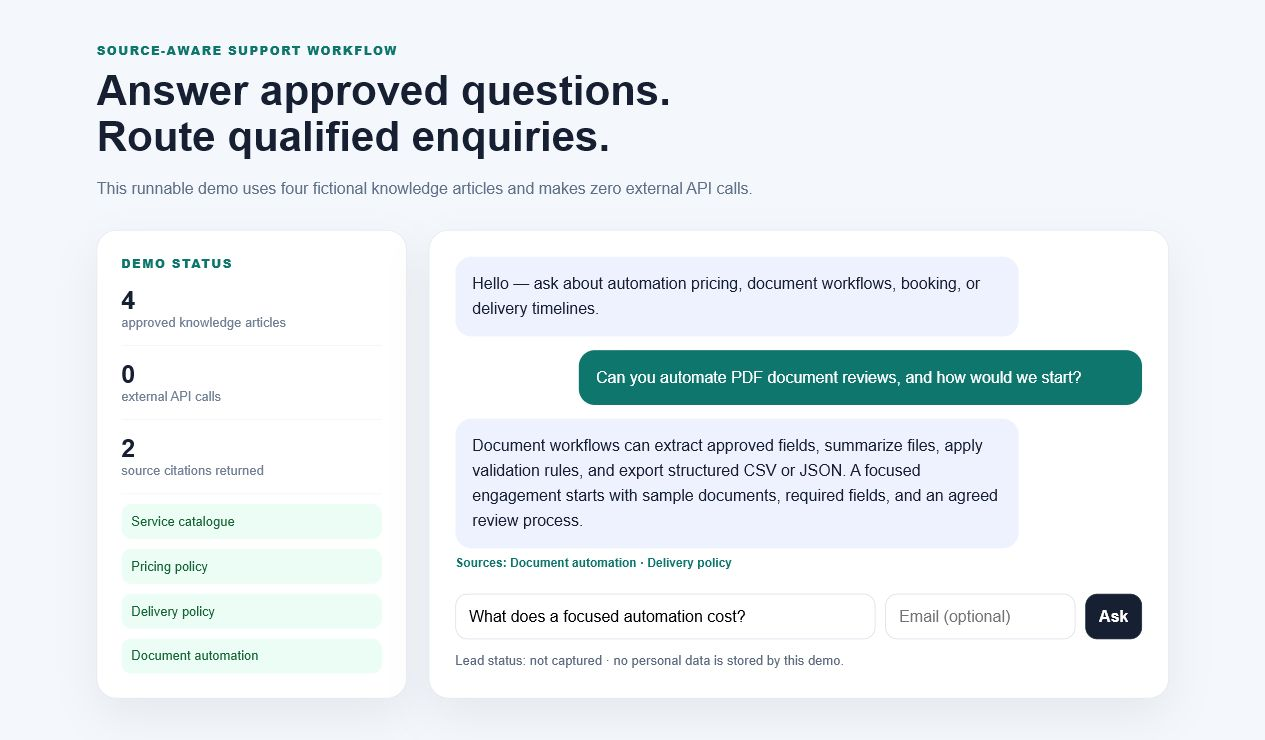
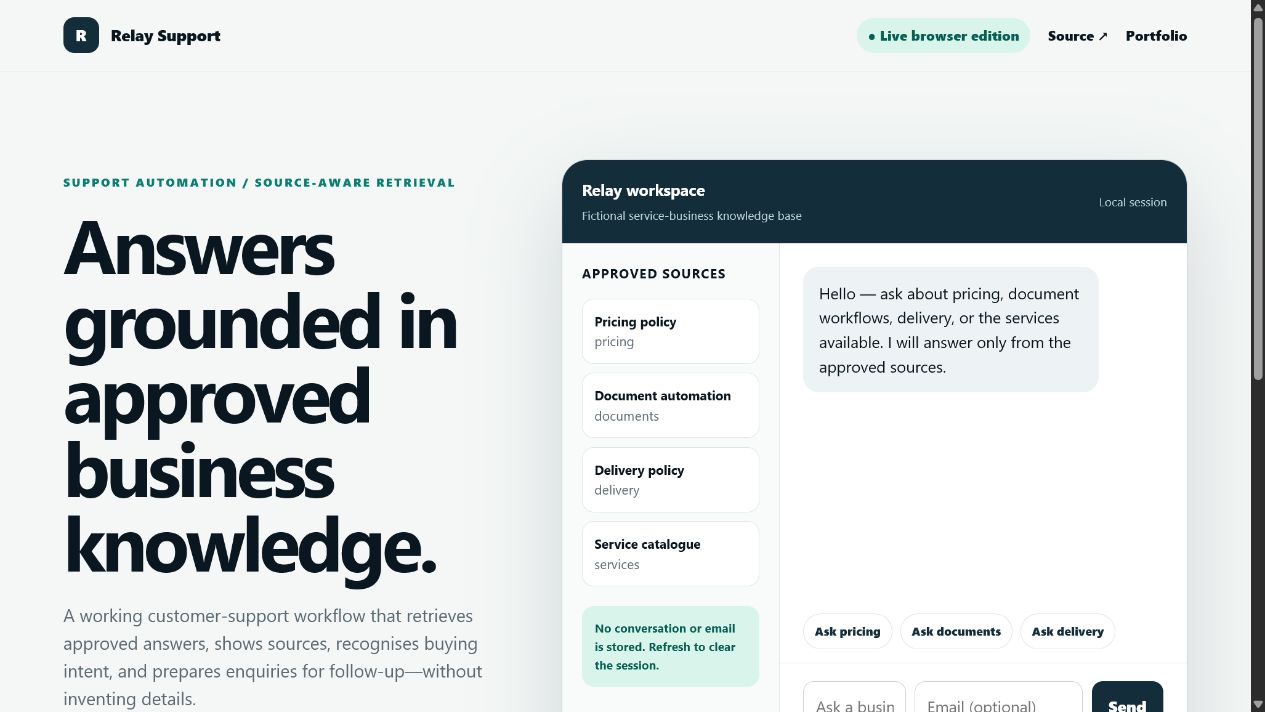
Add standalone live product site (#1)

diff --git a/site/index.html b/site/index.html
@@ -1,0 +1,39 @@
+<!doctype html>
+<html lang="en">
+<head>
+  <meta charset="utf-8">
+  <meta name="viewport" content="width=device-width,initial-scale=1">
+  <meta name="description" content="A live source-aware support and lead qualification assistant by Rongali Chaitanya.">
+  <meta property="og:title" content="Relay — Support & Lead Assistant"><meta property="og:description" content="A live source-aware support workflow with citations and lead qualification."><meta property="og:image" content="https://rongali-commits.github.io/support-lead-assistant/og.png"><meta property="og:type" content="website">
+  <title>Relay — Support & Lead Assistant</title>
+  <style>
+    :root{--ink:#0b1720;--muted:#5d6b73;--line:#dce5e7;--paper:#f4f7f6;--white:#fff;--teal:#087f70;--mint:#d9f5eb;--navy:#132d3a;--sun:#f2b84b}*{box-sizing:border-box}html{scroll-behavior:smooth}body{margin:0;background:var(--paper);color:var(--ink);font:16px/1.55 Inter,ui-sans-serif,system-ui,-apple-system,BlinkMacSystemFont,"Segoe UI",sans-serif}button,input{font:inherit}button,a{touch-action:manipulation}a{color:inherit}.topbar{display:flex;min-height:72px;align-items:center;justify-content:space-between;padding:0 clamp(20px,5vw,72px);border-bottom:1px solid var(--line);background:rgba(244,247,246,.92);backdrop-filter:blur(16px);position:sticky;top:0;z-index:5}.brand{display:flex;align-items:center;gap:12px;text-decoration:none;font-weight:900}.mark{display:grid;width:36px;height:36px;place-items:center;border-radius:11px;background:var(--navy);color:#fff}.nav{display:flex;align-items:center;gap:18px}.nav a{font-size:14px;font-weight:800;text-decoration:none}.status{padding:7px 11px;border-radius:999px;background:var(--mint);color:#075e53;font-size:12px;font-weight:900}.hero{display:grid;grid-template-columns:minmax(0,.82fr) minmax(560px,1.18fr);gap:clamp(28px,5vw,70px);max-width:1480px;margin:auto;padding:clamp(42px,7vw,96px) clamp(20px,5vw,72px)}.intro{align-self:center}.eyebrow{margin:0 0 14px;color:var(--teal);font-size:12px;font-weight:950;letter-spacing:.14em;text-transform:uppercase}.intro h1{max-width:720px;margin:0;font-size:clamp(46px,6vw,82px);line-height:.98;letter-spacing:-.055em}.intro>p:not(.eyebrow){max-width:650px;margin:24px 0;color:var(--muted);font-size:18px}.proof{display:grid;grid-template-columns:repeat(3,1fr);gap:10px;margin-top:34px}.proof div{padding:16px;border:1px solid var(--line);border-radius:15px;background:rgba(255,255,255,.66)}.proof strong,.proof span{display:block}.proof strong{font-size:24px}.proof span{color:var(--muted);font-size:12px;font-weight:750}.app{overflow:hidden;border:1px solid #bfcfd1;border-radius:26px;background:var(--white);box-shadow:0 32px 90px rgba(16,45,55,.16)}.appbar{display:flex;align-items:center;justify-content:space-between;padding:17px 20px;background:var(--navy);color:white}.appbar strong{display:block}.appbar span{color:#bad0d5;font-size:12px}.appbody{display:grid;grid-template-columns:220px minmax(0,1fr);min-height:610px}.knowledge{padding:20px;border-right:1px solid var(--line);background:#f8fbfa}.knowledge h2{margin:0 0 16px;font-size:13px;letter-spacing:.08em;text-transform:uppercase}.source{padding:12px;margin:0 0 9px;border:1px solid var(--line);border-radius:12px;background:white}.source strong,.source small{display:block}.source strong{font-size:13px}.source small{color:var(--muted)}.privacy{margin-top:20px;padding:13px;border-radius:12px;background:var(--mint);color:#075e53;font-size:12px;font-weight:750}.chat{display:flex;min-width:0;flex-direction:column}.messages{display:flex;min-height:375px;max-height:420px;overflow:auto;flex-direction:column;gap:14px;padding:24px}.message{max-width:82%;padding:14px 16px;border-radius:16px}.message.bot{align-self:flex-start;background:#edf2f5}.message.user{align-self:flex-end;background:var(--teal);color:white}.message p{margin:0}.citations{display:flex;flex-wrap:wrap;gap:7px;margin-top:10px}.citation{padding:4px 8px;border-radius:999px;background:white;color:var(--teal);font-size:11px;font-weight:850}.quick{display:flex;gap:8px;padding:0 24px 14px;overflow:auto}.quick button{white-space:nowrap;padding:8px 11px;border:1px solid var(--line);border-radius:999px;background:white;color:var(--navy);cursor:pointer;font-size:12px;font-weight:800}.quick button:hover{border-color:var(--teal)}.composer{display:grid;grid-template-columns:1fr 170px auto;gap:9px;padding:18px 24px;border-top:1px solid var(--line)}.composer input{min-width:0;padding:12px;border:1px solid #c8d4d7;border-radius:11px}.composer button{border:0;border-radius:11px;background:var(--navy);color:white;padding:0 17px;font-weight:900;cursor:pointer}.leadline{padding:0 24px 18px;color:var(--muted);font-size:12px}.leadline strong{color:var(--teal)}.section{max-width:1480px;margin:auto;padding:0 clamp(20px,5vw,72px) 80px}.section-grid{display:grid;grid-template-columns:1fr 1fr;gap:18px}.card{padding:26px;border:1px solid var(--line);border-radius:20px;background:white}.card h2{margin:0 0 10px;font-size:22px}.card p{margin:0;color:var(--muted)}.flow{display:flex;flex-wrap:wrap;gap:8px;margin-top:18px}.flow span{padding:8px 10px;border-radius:10px;background:#eef2f3;font-size:12px;font-weight:850}.footer{display:flex;justify-content:space-between;gap:20px;padding:28px clamp(20px,5vw,72px);border-top:1px solid var(--line);color:var(--muted);font-size:13px}@media(max-width:1050px){.hero{grid-template-columns:1fr}.intro h1{max-width:900px}.appbody{min-height:560px}}@media(max-width:700px){.nav a:not(.status){display:none}.proof,.section-grid{grid-template-columns:1fr}.appbody{grid-template-columns:1fr}.knowledge{display:none}.composer{grid-template-columns:1fr}.composer button{min-height:46px}.footer{flex-direction:column}.intro h1{font-size:48px}}
+  </style>
+</head>
+<body>
+  <header class="topbar"><a class="brand" href="./"><span class="mark">R</span>Relay Support</a><nav class="nav" aria-label="Project links"><a class="status" href="#demo">● Live browser edition</a><a href="https://github.com/rongali-commits/support-lead-assistant">Source ↗</a><a href="https://www.rongalichaitanya.com">Portfolio</a></nav></header>
+  <main>
+    <section class="hero">
+      <div class="intro"><p class="eyebrow">Support automation / source-aware retrieval</p><h1>Answers grounded in approved business knowledge.</h1><p>A working customer-support workflow that retrieves approved answers, shows sources, recognises buying intent, and prepares enquiries for follow-up—without inventing details.</p><div class="proof"><div><strong>4</strong><span>knowledge articles</span></div><div><strong>4</strong><span>intent routes</span></div><div><strong>0</strong><span>external API calls</span></div></div></div>
+      <section class="app" id="demo" aria-label="Interactive support assistant">
+        <div class="appbar"><div><strong>Relay workspace</strong><span>Fictional service-business knowledge base</span></div><span>Local session</span></div>
+        <div class="appbody"><aside class="knowledge"><h2>Approved sources</h2><div id="sources"></div><div class="privacy">No conversation or email is stored. Refresh to clear the session.</div></aside><div class="chat"><div class="messages" id="messages" aria-live="polite"></div><div class="quick"><button data-question="What does a focused automation cost?">Ask pricing</button><button data-question="Can you automate PDF documents?">Ask documents</button><button data-question="How quickly can we start?">Ask delivery</button></div><form class="composer" id="chat-form"><input id="question" aria-label="Customer question" placeholder="Ask a business question…" required><input id="email" type="email" aria-label="Email for follow-up" placeholder="Email (optional)"><button>Send</button></form><div class="leadline">Intent: <strong id="intent">general</strong> · Follow-up: <strong id="lead">not requested</strong></div></div></div>
+      </section>
+    </section>
+    <section class="section"><div class="section-grid"><article class="card"><p class="eyebrow">Implemented here</p><h2>Transparent browser retrieval</h2><p>Token matching, source citations, safe fallback behaviour, intent routing, and in-session lead qualification are running in this page.</p><div class="flow"><span>Question</span><span>Retrieve</span><span>Cite</span><span>Classify</span><span>Route</span></div></article><article class="card"><p class="eyebrow">Production extension</p><h2>FastAPI + managed search</h2><p>The repository includes a tested FastAPI implementation. A client deployment can add embeddings, CRM delivery, access control, analytics, and approved retention rules.</p><div class="flow"><span>FastAPI</span><span>RAG</span><span>CRM</span><span>Audit logs</span></div></article></div></section>
+  </main>
+  <footer class="footer"><span>Designed and built by Rongali Chaitanya.</span><span>All business content and contact details are fictional.</span></footer>
+  <script>
+    const kb=[{id:'pricing',title:'Pricing policy',tags:'price pricing cost quote budget discovery',answer:'Pricing depends on the workflow, data sources, integrations, and delivery risk. A fixed quote follows a short discovery step using sample inputs and an agreed definition of done.'},{id:'documents',title:'Document automation',tags:'document pdf resume file extract summarize',answer:'Document workflows can extract approved fields, summarize files, apply validation rules, and export structured CSV or JSON. Sensitive files should use client-approved storage and retention rules.'},{id:'delivery',title:'Delivery policy',tags:'delivery deadline timeline start available quickly same day',answer:'A focused engagement starts with sample data and acceptance criteria, then moves through a working preview, validation, deployment, and documented handover.'},{id:'services',title:'Service catalogue',tags:'automation python api dashboard spreadsheet support chatbot',answer:'Focused builds can cover Python reporting, spreadsheet cleanup, API integrations, internal dashboards, and source-aware support assistants.'}];
+    const messages=document.querySelector('#messages'); const sourceList=document.querySelector('#sources');
+    kb.forEach(item=>sourceList.insertAdjacentHTML('beforeend',`<div class="source"><strong>${item.title}</strong><small>${item.id}</small></div>`));
+    function tokens(text){return new Set(text.toLowerCase().match(/[a-z0-9]+/g)||[])}
+    function classify(text){const value=text.toLowerCase();if(/price|cost|quote|budget/.test(value))return'pricing';if(/book|start|available|call/.test(value))return'booking';if(/document|pdf|resume|file/.test(value))return'documents';if(/deliver|deadline|timeline|quick/.test(value))return'delivery';return'general'}
+    function respond(question){const query=tokens(question);return kb.map(item=>({item,score:[...query].filter(word=>tokens(item.tags+' '+item.title).has(word)).length})).filter(row=>row.score>0).sort((a,b)=>b.score-a.score).slice(0,2)}
+    function add(role,text,sources=[]){const node=document.createElement('div');node.className=`message ${role}`;node.innerHTML=`<p></p>${sources.length?`<div class="citations">${sources.map(s=>`<span class="citation">${s.title}</span>`).join('')}</div>`:''}`;node.querySelector('p').textContent=text;messages.append(node);messages.scrollTop=messages.scrollHeight}
+    add('bot','Hello — ask about pricing, document workflows, delivery, or the services available. I will answer only from the approved sources.');
+    function ask(question,email=''){add('user',question);const matches=respond(question);const intent=classify(question);document.querySelector('#intent').textContent=intent;const valid=/^[^@\s]+@[^@\s]+\.[^@\s]+$/.test(email);document.querySelector('#lead').textContent=valid?(['pricing','booking','delivery'].includes(intent)?'qualified':'requested'):'not requested';if(!matches.length){add('bot','I could not find that in the approved knowledge base. Please request a human follow-up rather than relying on an invented answer.');return}add('bot',matches[0].item.answer,matches.map(row=>row.item))}
+    document.querySelector('#chat-form').addEventListener('submit',event=>{event.preventDefault();const q=document.querySelector('#question');const e=document.querySelector('#email');ask(q.value.trim(),e.value.trim());q.value=''});document.querySelectorAll('[data-question]').forEach(button=>button.addEventListener('click',()=>ask(button.dataset.question,'')));
+  </script>
+</body>
+</html>

diff --git a/README.md b/README.md
@@ -1,7 +1,7 @@
 # Support & Lead Assistant
 
 [![CI](https://github.com/rongali-commits/support-lead-assistant/actions/workflows/ci.yml/badge.svg)](https://github.com/rongali-commits/support-lead-assistant/actions/workflows/ci.yml)
-[Portfolio](https://www.rongalichaitanya.com) · [Discuss an assistant](mailto:hello@rongalichaitanya.com)
+[Live application](https://rongali-commits.github.io/support-lead-assistant/) · [Portfolio](https://www.rongalichaitanya.com) · [Discuss an assistant](mailto:hello@rongalichaitanya.com)
 
 A source-aware FastAPI assistant that answers from an approved knowledge base, returns citations, classifies customer intent, and marks high-intent enquiries for follow-up.
 
@@ -71,6 +71,7 @@ curl -X POST http://127.0.0.1:8000/api/chat \
 src/support_assistant/app.py       API, intent routing, and lead status
 src/support_assistant/retrieval.py local source retrieval
 src/support_assistant/static/      runnable browser interface
+site/                              independently hosted browser edition
 data/knowledge_base.json           fictional approved content
 tests/                             API and safety-path tests
 docs/                              verified screenshot
